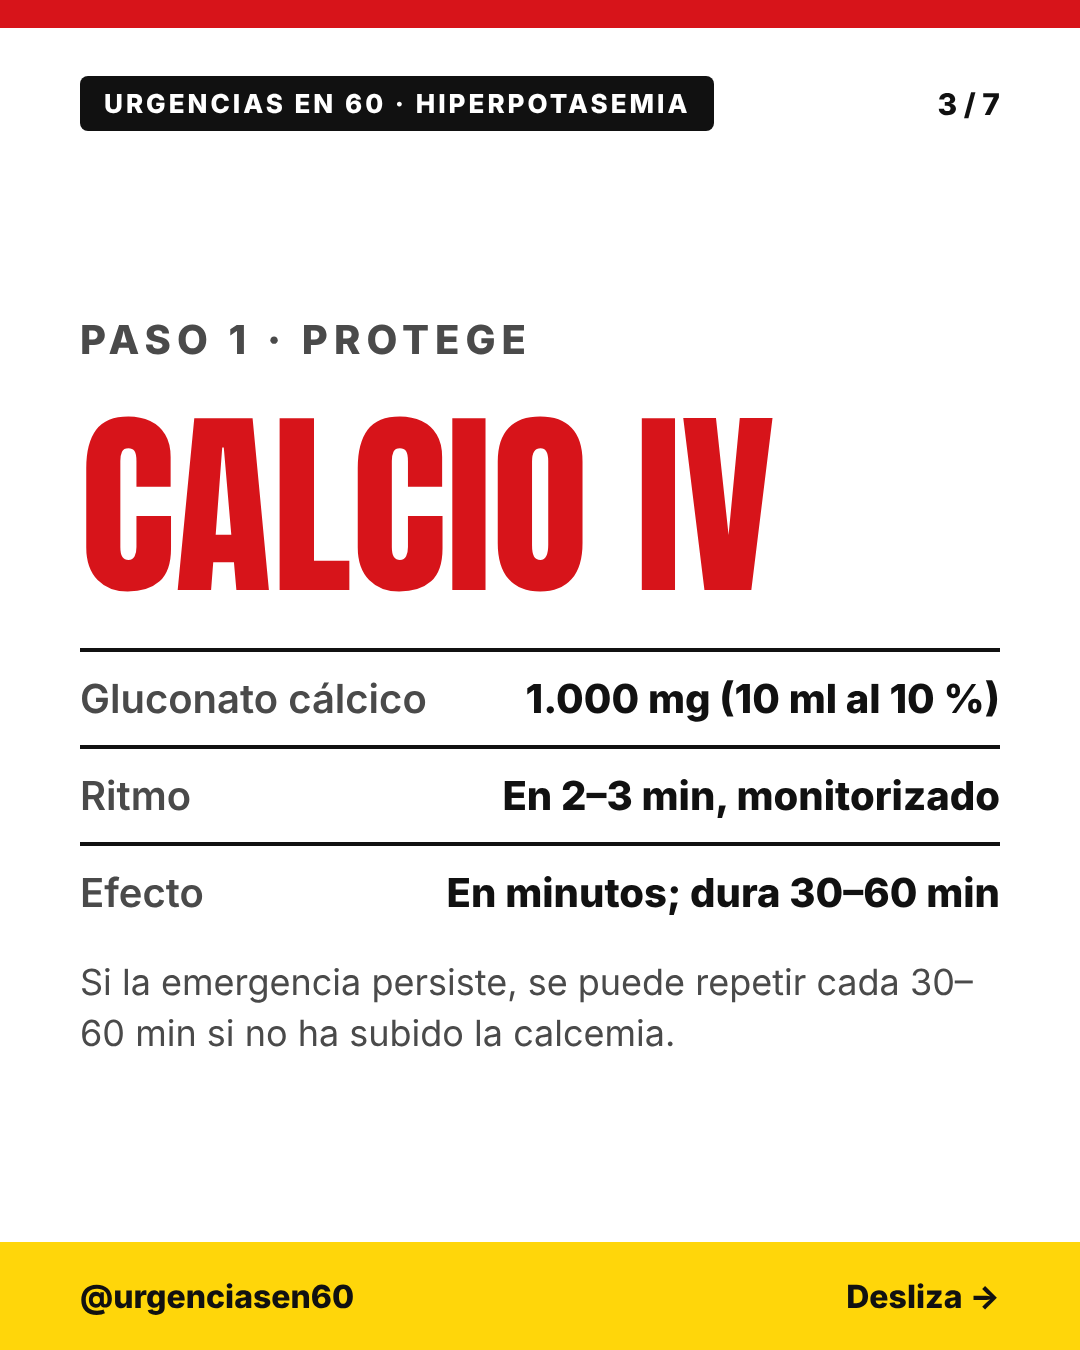
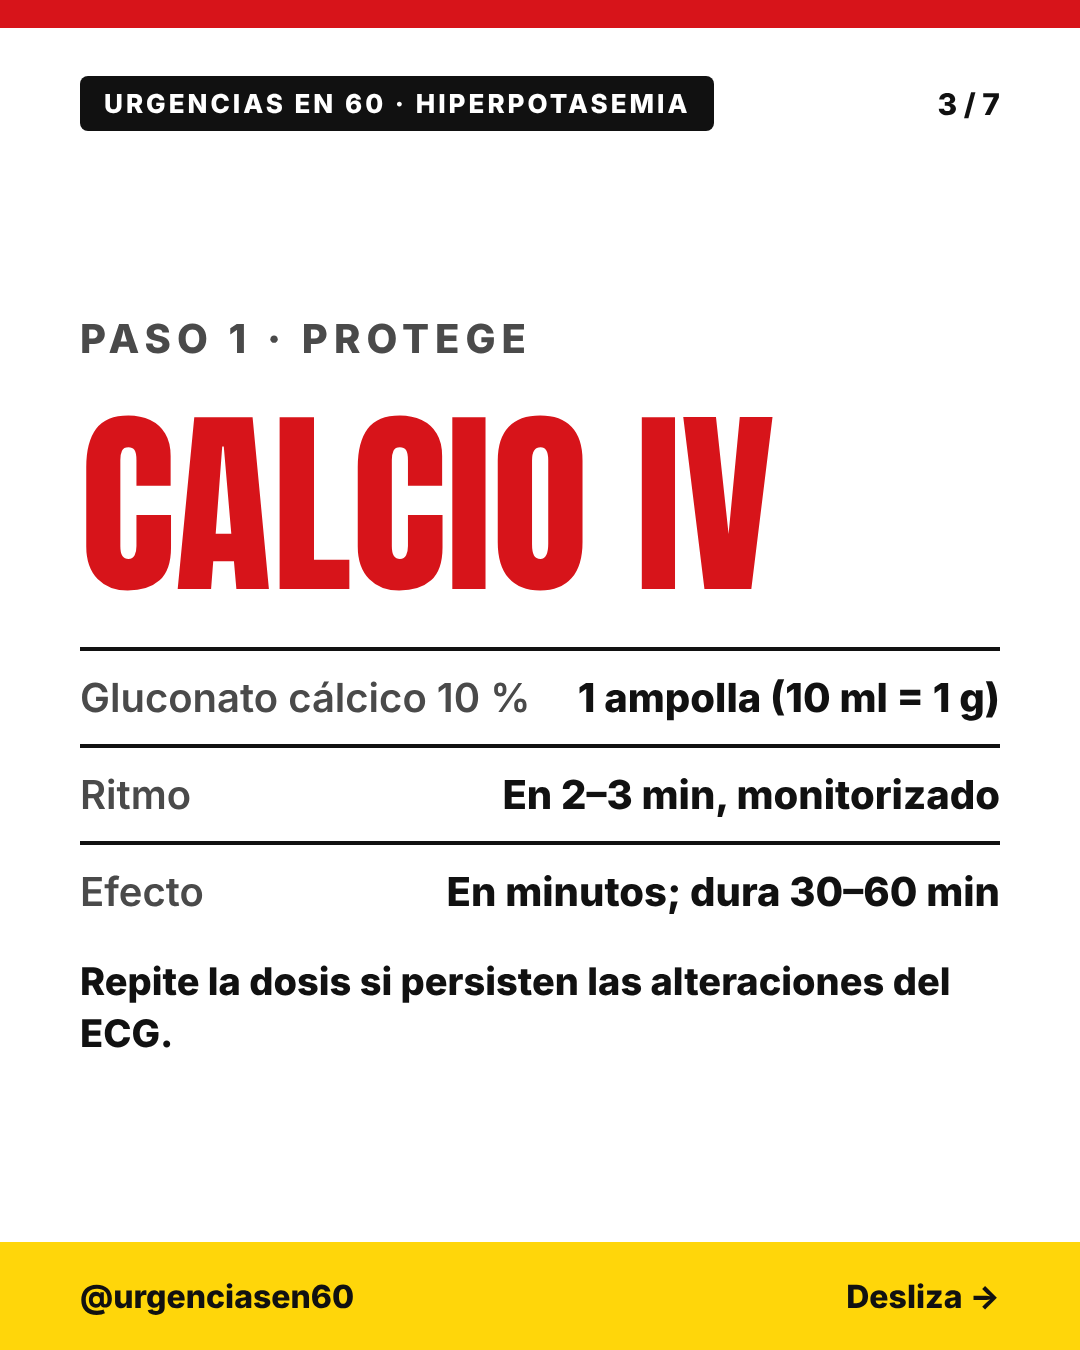
Actualiza el borrador de la Ficha 02 con la práctica del servicio
Claude-Session: https://claude.ai/code/session_019S5PG2ppqwuZwMv2DxeA6e

diff --git a/tools/hiperpotasemia.py b/tools/hiperpotasemia.py
@@ -1,15 +1,14 @@
 import os, sys; sys.path.insert(0, os.path.dirname(os.path.abspath(__file__)))
 from ficha import *
 T="HIPERPOTASEMIA"; N=7
-SRC="Ortiz A, et al. Documento de consenso sobre el abordaje de la hiperpotasemia. Nefrología 2023;43(5):765-82"
 P=[
 page(1,N,T,big("HIPERPOTASEMIA",134,nowrap=True)+big(f'EL CALCIO <span style="color:{R}">NO</span> BAJA EL POTASIO',116)+'<div style="font-size:40px;font-weight:600;line-height:1.3;max-width:820px">Protege, desplaza y elimina: el orden del tratamiento, con ficha final para guardar.</div>',cover=True),
 page(2,N,T,big("¿CUÁNTO ES GRAVE?",124,nowrap=True)+f'<div style="display:flex;flex-direction:column;gap:22px">{row("Leve","5,0–5,9 mEq/L")}{row("Moderada","6,0–6,4 mEq/L")}<div style="border-top:4px solid {K};padding-top:22px;display:flex;justify-content:space-between;gap:32px;font-size:40px;color:{R}"><div style="font-weight:800">Grave</div><div style="font-weight:800;text-align:right">≥ 6,5 mEq/L</div></div></div>'+f'<div style="border-top:4px solid {K};padding-top:28px;font-size:42px;font-weight:800;line-height:1.3">O con repercusión en el ECG</div>'),
-page(3,N,T,kicker("PASO 1 · PROTEGE")+big("CALCIO IV",200,R,True)+f'<div style="display:flex;flex-direction:column;gap:22px">{row("Gluconato cálcico","1.000 mg (10 ml al 10 %)")}{row("Ritmo","En 2–3 min, monitorizado")}{row("Efecto","En minutos; dura 30–60 min")}</div>'+f'<div style="font-size:36px;line-height:1.4;color:{G}">Si la emergencia persiste, se puede repetir cada 30–60 min si no ha subido la calcemia.</div>'),
-page(4,N,T,kicker("PASO 2 · DESPLAZA")+big("INSULINA + GLUCOSA",110,R,True)+f'<div style="display:flex;flex-direction:column;gap:22px">{row("Insulina rápida","10 UI")}{row("En","500 ml de glucosado al 10 %")}{row("Ritmo","En 1 hora")}</div>'+f'<div style="font-size:36px;line-height:1.4;color:{G}">Es la medida más eficaz: empieza en 10–20 min y dura hasta 6 h. Insulina sola si la glucemia es &gt; 250 mg/dl.</div>'),
-page(5,N,T,kicker("PASO 2 · SUMA")+big("SALBUTAMOL",168,R,True)+'<div style="font-size:62px;font-weight:800;line-height:1.2">10–20 mg nebulizado en 10 min</div>'+f'<div style="border-top:4px solid {K};padding-top:28px;font-size:40px;line-height:1.4;color:{G}">Complemento de la insulina: el efecto es aditivo. Puede producir taquicardia. Bicarbonato solo si hay acidosis metabólica.</div>'),
+page(3,N,T,kicker("PASO 1 · PROTEGE")+big("CALCIO IV",200,R,True)+f'<div style="display:flex;flex-direction:column;gap:22px">{row("Gluconato cálcico 10 %","1 ampolla (10 ml = 1 g)")}{row("Ritmo","En 2–3 min, monitorizado")}{row("Efecto","En minutos; dura 30–60 min")}</div>'+f'<div style="font-size:38px;font-weight:800;line-height:1.35">Repite la dosis si persisten las alteraciones del ECG.</div>'),
+page(4,N,T,kicker("PASO 2 · DESPLAZA")+big("INSULINA + GLUCOSA",110,R,True)+'<div style="font-size:50px;font-weight:800;line-height:1.2">10 UI de insulina rápida + 50 g de glucosa, en 1 h</div>'+f'<div style="display:flex;flex-direction:column;gap:22px">{row("Glucosado al 10 %","500 ml")}{row("Glucosado al 20 %","250 ml")}{row("Glucosado al 50 %","100 ml")}</div>'+f'<div style="font-size:36px;line-height:1.4;color:{G}">Con insuficiencia cardiaca, misma glucosa en menos volumen. Insulina sola si la glucemia es &gt; 250 mg/dl.</div>'),
+page(5,N,T,kicker("PASO 2 · SUMA")+big("SALBUTAMOL",150,R,True)+'<div style="font-size:48px;font-weight:800;line-height:1.2">10–20 mg nebulizado en 10 min</div>'+f'<div style="border-top:4px solid {K};padding-top:32px;display:flex;flex-direction:column;gap:24px">{big("BICARBONATO",110)}<div style="font-size:48px;font-weight:800;line-height:1.2">Solo si hay acidosis metabólica</div>{row("Bicarbonato 1 M","50–100 mEq IV")}</div>'+f'<div style="font-size:34px;line-height:1.4;color:{G}">No lo mezcles con el calcio en la misma vía: precipita.</div>'),
 page(6,N,T,kicker("PASO 3 · ELIMINA")+big("SACA EL POTASIO",128,nowrap=True)+f'<div style="display:flex;flex-direction:column;gap:22px">{line("Diuréticos de asa, si la función renal lo permite")}{line("Captores digestivos: patiromer o ciclosilicato")}{line("Hemodiálisis: de elección en la emergencia, sobre todo en pacientes en diálisis",True)}</div>'+f'<div style="font-size:36px;line-height:1.4;color:{G}">Solo desplazar y eliminar reducen la potasemia.</div>'),
-page(7,N,T,ficha_body("HIPERPOTASEMIA","Adulto",[("GRAVE","K ≥ 6,5 mEq/L o repercusión en el ECG"),("1. PROTEGE","Gluconato cálcico 1.000 mg (10 ml al 10 %) IV en 2–3 min. Repetible cada 30–60 min",True),("2. DESPLAZA","Insulina rápida 10 UI en 500 ml de glucosado al 10 % en 1 h"),("Y SUMA","Salbutamol nebulizado 10–20 mg en 10 min"),("SI ACIDOSIS","Bicarbonato sódico"),("3. ELIMINA","Diurético de asa, captores digestivos, hemodiálisis")],"Ortiz A, et al. Nefrología 2023;43(5):765-82 (consenso SEN, SEMES, SEEN, SEMI y SEC)",size=112),ficha="02"),
+page(7,N,T,ficha_body("HIPERPOTASEMIA","Adulto",[("GRAVE","K ≥ 6,5 mEq/L o repercusión en el ECG"),("1. PROTEGE","Gluconato cálcico 10 %, 1 ampolla (10 ml) IV en 2–3 min. Repetir si persiste el ECG alterado",True),("2. DESPLAZA","Insulina rápida 10 UI + glucosa 50 g en 1 h: 500 ml al 10 %, 250 ml al 20 % o 100 ml al 50 %"),("Y SUMA","Salbutamol nebulizado 10–20 mg"),("SI ACIDOSIS","Bicarbonato 1 M, 50–100 mEq IV. No mezclar con el calcio"),("3. ELIMINA","Diurético de asa, captores digestivos, hemodiálisis")],"Ortiz A, et al. Nefrología 2023;43(5):765-82 (consenso SEN, SEMES, SEEN, SEMI y SEC)",size=112),ficha="02"),
 ]
 out = sys.argv[1] if len(sys.argv)>1 else "out"
 render(P,out,"hiperpotasemia")

diff --git a/COLA.md b/COLA.md
@@ -13,4 +13,5 @@ Ritmo de publicación: lunes, miércoles y viernes a las 21:00 (Europe/Madrid), 
 Próximo número de ficha libre: 03.
 
 ## Notas de revisión
-- Ficha 02: dosis tomadas del consenso español (Ortiz A, et al. Nefrología 2023;43(5):765-82. doi:10.1016/j.nefro.2023.05.004). Difiere del algoritmo ERC/UK Kidney Association en la dosis de calcio y en la pauta de insulina; pendiente de que Eduardo confirme cuál se sigue.
+- Ficha 02 (versión 3, 16/11/2026): dosis del consenso español (Ortiz A, et al. Nefrología 2023;43(5):765-82. doi:10.1016/j.nefro.2023.05.004) ajustadas a la práctica del servicio de Eduardo: gluconato cálcico 1 ampolla de 10 ml, repetible si persiste el ECG alterado.
+- Pendiente de confirmar por Eduardo: (1) gramos de glucosa: la ficha pone 50 g (500 ml al 10 %), que es la pauta del consenso; si en su servicio usan 25 g, las equivalencias son 250 ml al 10 %, 125 ml al 20 % o 50 ml al 50 %. (2) Bicarbonato: el consenso solo dice «si hay acidosis metabólica», sin dosis; la cifra de 50-100 mEq de bicarbonato 1 M procede de un protocolo hospitalario y falta su umbral de pH y la dosis que usan.
